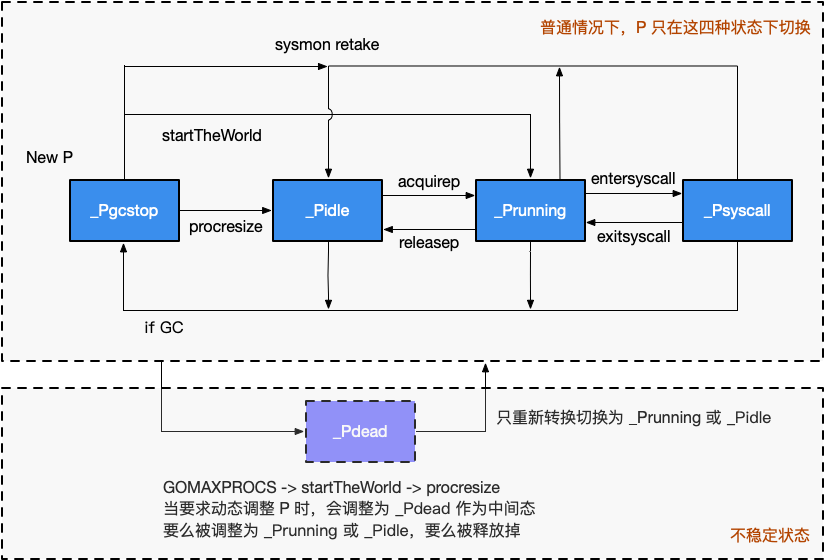
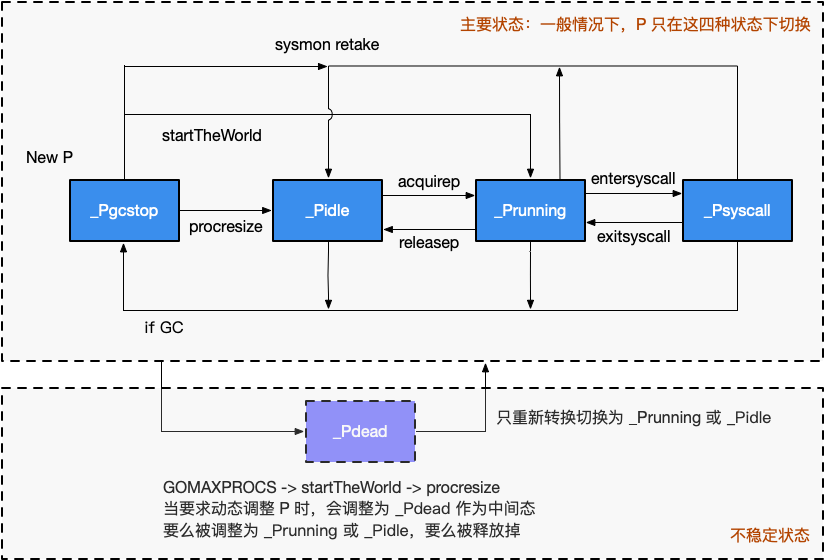
book: update pg status

Changed region(s): [[0.5455, 0.0304, 1.0, 0.0607]]

diff --git a/book/zh-cn/part2runtime/ch06sched/init.md b/book/zh-cn/part2runtime/ch06sched/init.md
@@ -57,11 +57,11 @@ func mcommoninit(mp *m) {
 
 ## P 初始化
 
-在看 `runtime.procresize` 函数之前，我们先概览一遍 P 的状态机。
+在看 `runtime.procresize` 函数之前，我们先概览一遍 P 的状态转换图，如图 1 所示。
 
 ![](../../../assets/p-status.png)
 
-图 1: P 的状态转换图
+**图 1: P 的状态转换图**
 
 通常情况下（在程序运行时不调整 P 的个数），P 只会在四种状态下进行切换。
 当程序刚开始运行进行初始化时，所有的 P 都处于 `_Pgcstop` 状态，
@@ -343,50 +343,12 @@ runtime.GOMAXPROCS(runtime.GOMAXPROCS(0))
 运行完 `runtime.procresize` 之后，我们已经在 [程序引导](../../part1basic/ch05boot/boot.md) 和 [主 goroutine 生命周期](../../part1basic/ch05boot/main.md) 中已经看到，
 主 goroutine 会以被调度器调度的方式进行运行，这将由 `runtime.newproc` 来完成主 goroutine 的初始化工作。
 
-在看 `runtime.newproc` 之前，我们先大致浏览一下 G 的各个状态。
+在看 `runtime.newproc` 之前，我们先大致浏览一下 G 的各个状态，如图 2 所示。
 
-```
-所有的 G 状态：
-_Gidle
-_Grunnable
-_Grunning
-_Gsyscall
-_Gwaiting
-_Gdead
-_Gcopystack
-_Gscan
-_Gscanrunnable
-_Gscanrunning
-_Gscansyscall
-_Gscanwaiting
-                                               +---------------+
-                                               | _Gscanwaiting |
-                                               +---------------+
-                                                     ^  |
-                                  runtime.newstack   |  | runtime.newstack
-                                                     |  v                               +-------------+
-   runtime.gcMarkTermination / runtime.ready      +-----------+  runtime.casgcopystack  |             |
-                          +---------------------- | _Gwaiting | ----------------------> | _Gcopystack |
-                          |   runtime.schedule    +-----------+  +--------------------> |             |
-                          |                             ^        |   runtime.morestack  +-------------+
-                          |      runtime.gcBgMarkWorker |        |   runtime.casgcopystack
-                          |   runtime.gcMarkTermination |        |
-     New G                v               runtime.dropg |        v
-  +--------+        +------------+   runtime.execute  +-----------+                     +--------+
-  |        |        |            | -----------------> |           |  runtime.Goexit     |        |
-  | _Gidle |        | _Grunnable |                    | _Grunning | ------------------> | _Gdead | 
-  |        |        |            | <----------------- |           |                     |        |
-  +--------+        +------------+    runtime.Gosched +-----------+                     +--------+
-       |              ^   ^                              ^     | runtime.entersyscallblock ^ | ^
-       |              |   |                              |     | runtime.entersyscall      | | |
-       |              |   |         runtime.exitsyscall  |     v                           | | |
-       |              |   |                           +-----------+          runtime.dropm | | |
-       |              |   +-------------------------- | _Gsyscall | -----------------------+ | |
-       |              |                               +-----------+                          | |
-       |              +----------------------------------------------------------------------+ |
-       |                    runtime.newproc / runtime.oneNewExtraM                             |
-       +---------------------------------------------------------------------------------------+
-```
+
+![](../../../assets/g-status.png)
+
+**图2: G 的转状态转换图**
 
 我们接下来就来粗略看一看 `runtime.newproc`：
 
